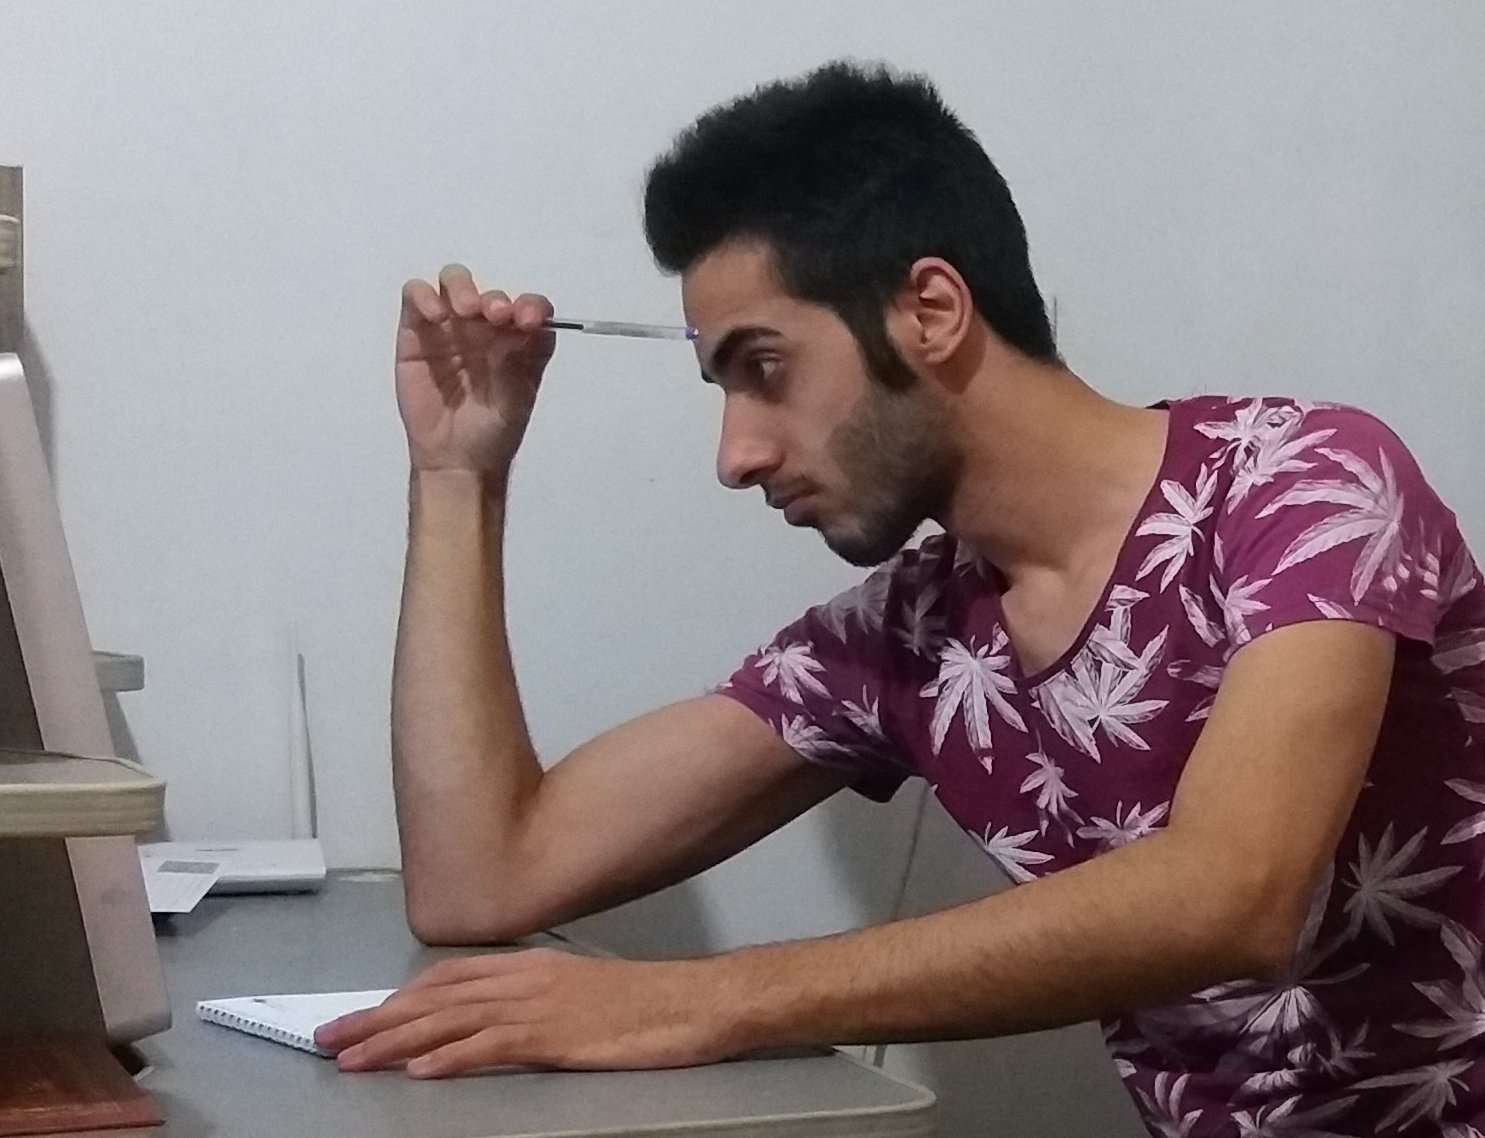
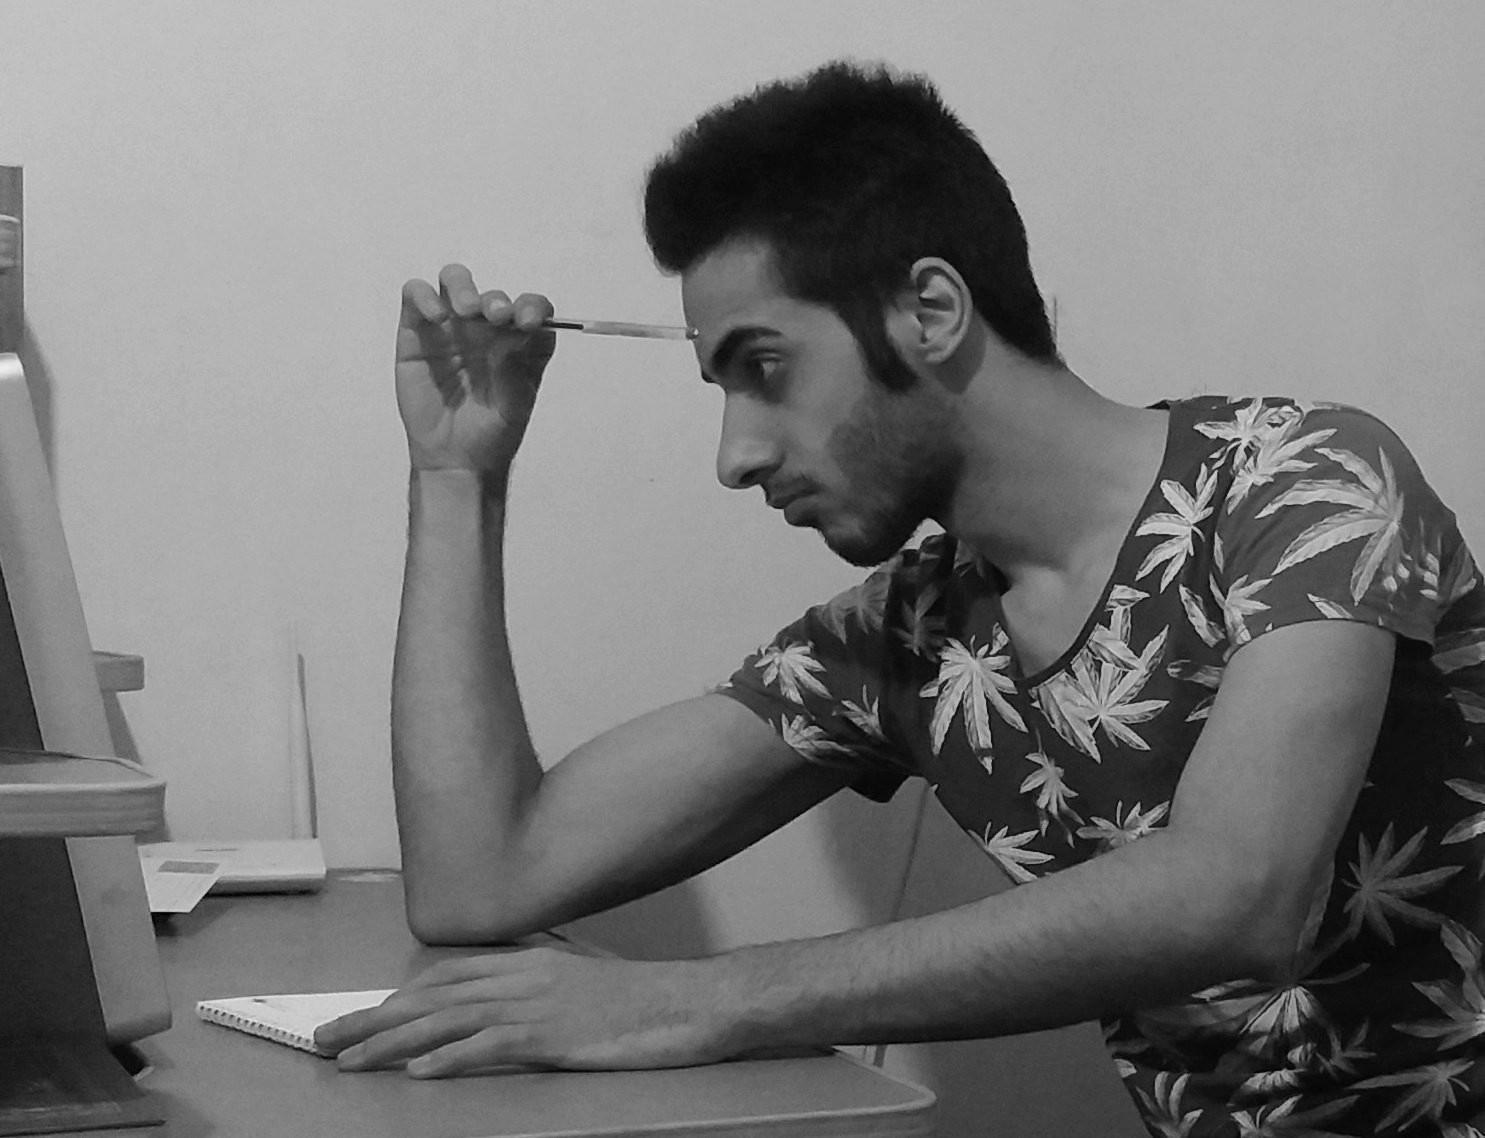
fix: my photo

diff --git a/src/content/posts/about-the-author.md b/src/content/posts/about-the-author.md
@@ -6,5 +6,5 @@ date = "2019-06-21T00:00:01"
 
 ![پوریا جهانبخش](/posts/images/erlang-fa.ir-about-the-author-01.jpg)
 
-از نظر فنی خودم رو یک برنامهنویس معمولی میدونم. الان که دارم این مطلب رو مینویسم (ابتدای سال ۹۸) حدود ۵ سالی میشه که ارلنگ کار میکنم. از سابقه کاری رسمیم در ارلنگ هم باید بگم که در سطح مطلوبی در بستر پیامرسانی کار کردم و همچنین در [صفحه ی گیتهابم](https://github.com/Pouriya-Jahanbakhsh?tab=repositories&language=erlang&type=source) یه مشت پروژه ارلنگی دارم که چند تاییشون در دنیای واقعی توسط خودم و بقیه ارلنگ کار ها استفاده شده و فیدبک های خوبی هم ازشون گرفتم. یک بار هم یک باگی رو در کتابخانه استاندارد خود ارلنگ پیدا کردم و خودم مشارکت کردم و [درستش کردم](https://github.com/erlang/otp/commit/eefcc985530acbd5cc4c97b6e4f537492fd61622#diff-f1d31bd7a3ecebdaaf2f08eabecdbdb3).
-<p style="text-align:left">پوریا جهانبخش - [codefather.org](http://codefather.org)</p>
+اول از همه بگم که دلیل انتخاب این عکس اینه که بازوم توش خیلی خفن افتاده! پوریا جهانبخش هستم و از نظر فنی خودم رو یک برنامهنویس معمولی میدونم. الان که دارم این مطلب رو مینویسم (ابتدای سال ۹۸) حدود ۵ سالی میشه که ارلنگ کار میکنم. از سابقه کاری رسمیم در ارلنگ هم باید بگم که در سطح مطلوبی در بستر پیامرسانی کار کردم و همچنین در [صفحه ی گیتهابم](https://github.com/Pouriya-Jahanbakhsh?tab=repositories&language=erlang&type=source) یه مشت پروژه ارلنگی دارم که چند تاییشون در دنیای واقعی توسط خودم و بقیه ارلنگ کار ها استفاده شده و فیدبک های خوبی هم ازشون گرفتم. یک بار هم یک باگی رو در کتابخانه استاندارد خود ارلنگ پیدا کردم و خودم مشارکت کردم و [درستش کردم](https://github.com/erlang/otp/commit/eefcc985530acbd5cc4c97b6e4f537492fd61622#diff-f1d31bd7a3ecebdaaf2f08eabecdbdb3).
+<p style="text-align:left">[codefather.org](http://codefather.org)</p>
